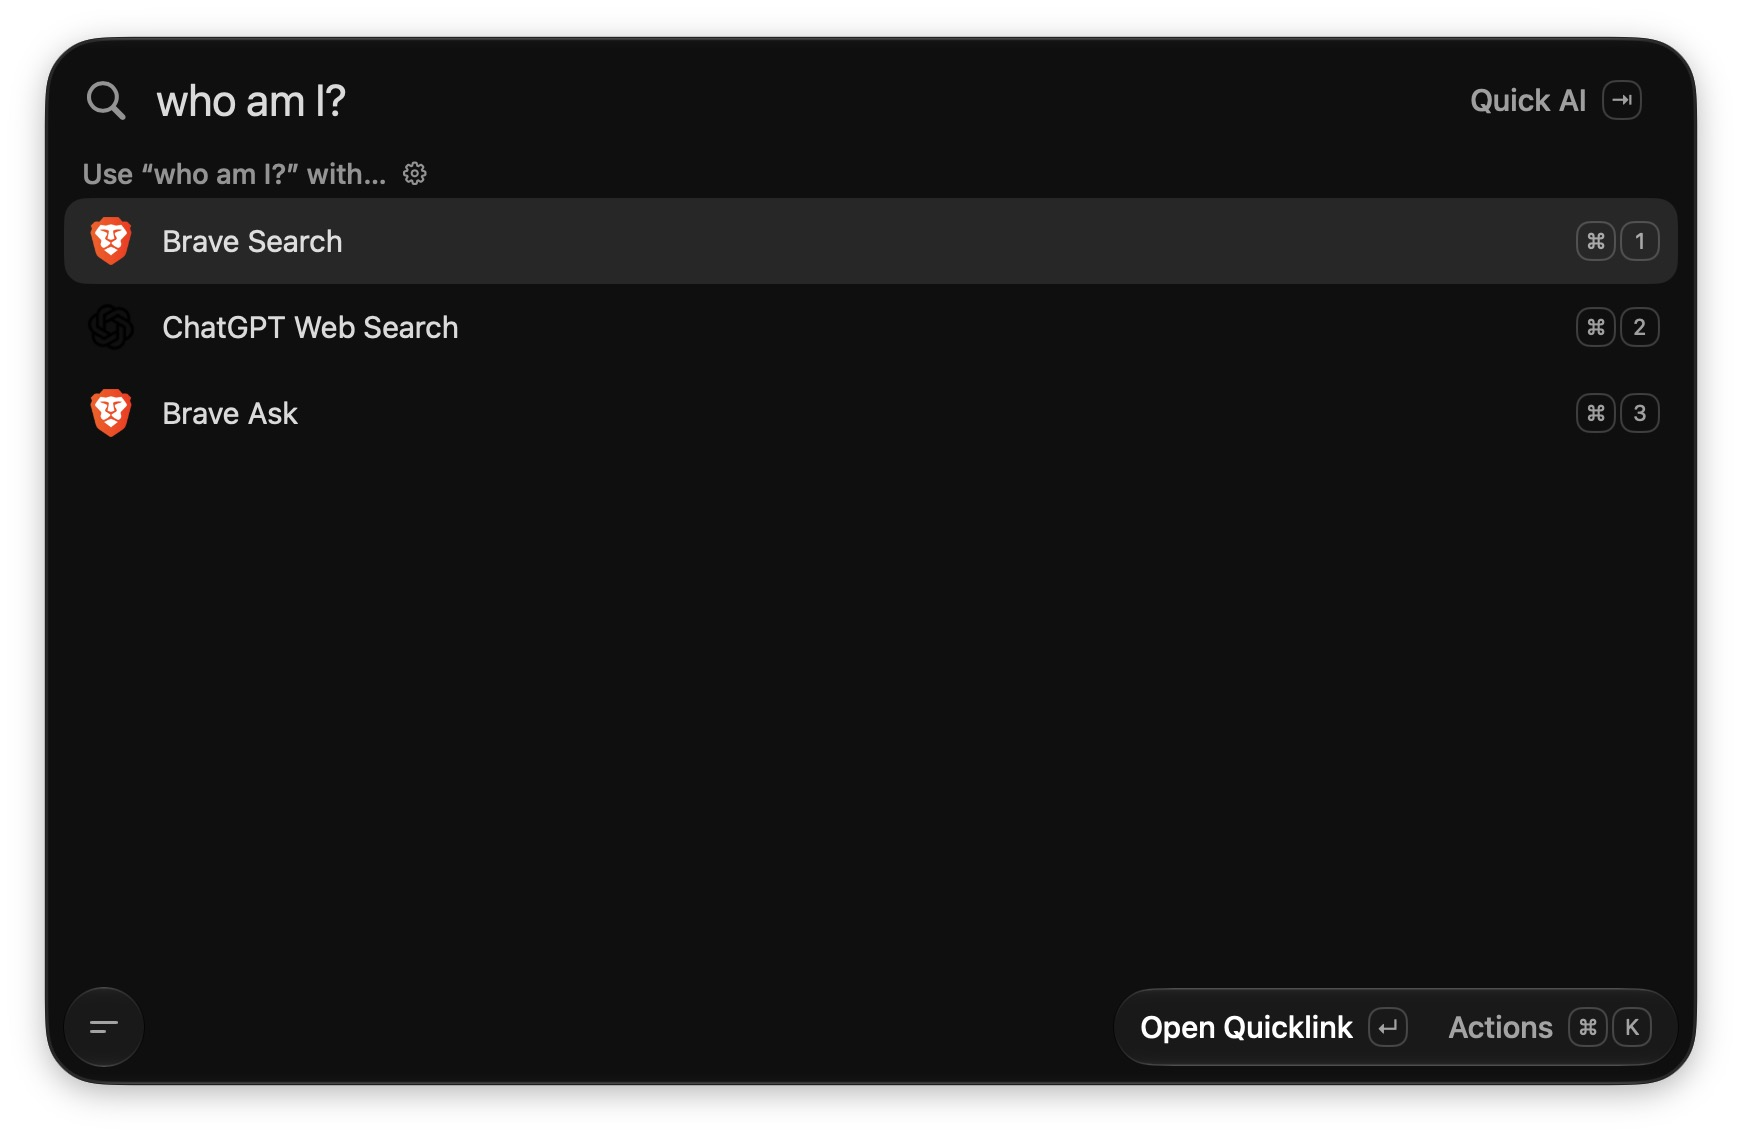
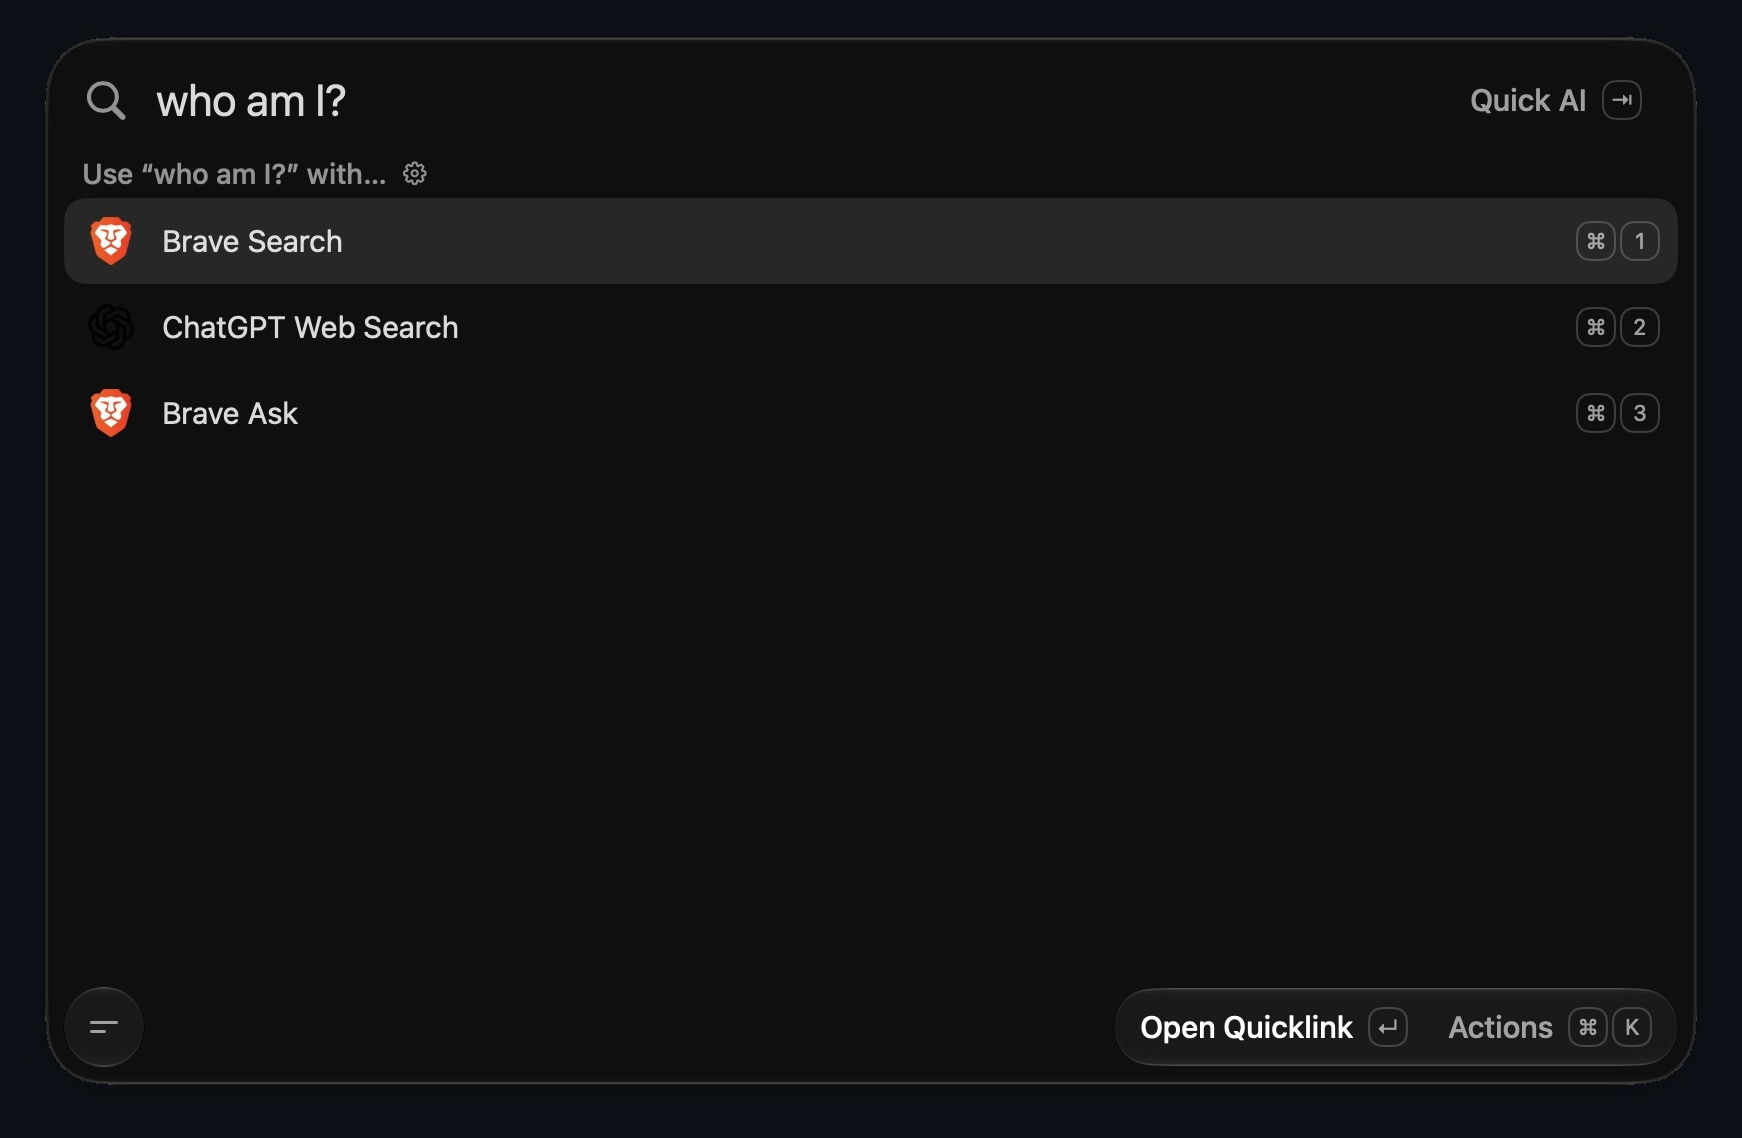
docs: remove white background from docs screenshot, update README and site for v1.1.0

Changed region(s): [[0.0, 0.0, 1.0, 1.0]]

diff --git a/site/index.html b/site/index.html
@@ -520,7 +520,8 @@
            the cleaned text once. No model is bundled — the pane downloads a pinned Core ML
            conversion when you ask it to.</p>
         <ul class="ticks">
-          <li>Parakeet and Qwen3-ASR model families</li>
+          <li>Parakeet and Qwen3-ASR model families with persistent zero-lag daemons</li>
+          <li>Real-time Dictation Insights dashboard with WPM, cadence meter, and streak tracking</li>
           <li>Live preview in a floating pill while you speak</li>
           <li>Local cleanup fixes grammar and filler words before pasting</li>
           <li><a href="#beyond">Vocabulary packs and a custom word list</a> — grown well past upstream</li>
@@ -587,15 +588,16 @@
     <div class="grid">
       <div class="card">
         <span class="badge plus">Extended</span>
-        <h4>Dictation with vocabulary and a local cleanup pass</h4>
+        <h4>Dictation with insights, vocabulary and zero-lag cleanup</h4>
         <p>Tinycast ships dictation on Parakeet and Qwen3-ASR. szcast keeps both and grew the
-           feature to <em>41 source files from 27</em>: vocabulary packs, a custom word list,
+           feature to <em>43 source files from 27</em>: real-time speech analytics dashboard,
+           persistent launch daemons for 0ms latency, vocabulary packs, a custom word list,
            transcription history, a hotkey preset picker, an idle-release policy, and audio
            ducking so your music steps back while you speak.</p>
-        <p>The cleanup pass is the part worth pointing at. A pinned <em>S1-mini</em> model runs
-           locally through llama.cpp to fix grammar and filler words — with tone, structure and
-           sign-off controls — so the text lands formatted instead of raw.</p>
-        <div class="detail">DictationS1Polisher · DictationLlamaServerManager · VocabularyPack<br />
+        <p>The cleanup pass is the part worth pointing at. A pinned <em>S1-mini</em> model stays hot
+           in Metal GPU memory to fix grammar, punctuation, and filler words — with tone, structure,
+           and sign-off controls — so the text lands formatted instead of raw.</p>
+        <div class="detail">DictationInsightsView · DictationS1Polisher · DictationLlamaServerManager<br />
           Tech · Medical · Legal · Brands · Names</div>
       </div>
 
@@ -711,8 +713,13 @@
       </div>
       <div class="card">
         <div class="ico">◐</div>
-        <h4>Display Tweaks &amp; LUTs</h4>
-        <p>Direct hardware look-up table calibration via <code>CGSetDisplayTransferByTable</code> with 0–100 sliders, RGB gain balance, deep shadows, and display mirroring.</p>
+        <h4>Display Tweaks &amp; Gamma Control</h4>
+        <p>Direct hardware LUT calibration via <code>CGSetDisplayTransferByTable</code> with 0.00–1.00 fine Black, Middle, and White luminance controls, RGB gain balance, and instant Gamma Control preset for OLED-grade contrast.</p>
+      </div>
+      <div class="card">
+        <div class="ico">⚡</div>
+        <h4>Dictation Insights &amp; Analytics</h4>
+        <p>Real-time speech analytics dashboard tracking Words Per Minute, cadence percentile meter, S1-mini normalization corrections, 16-week streak calendar, and application usage breakdown.</p>
       </div>
       <div class="card">
         <div class="ico">⌨</div>

diff --git a/README.md b/README.md
@@ -22,7 +22,7 @@
 </p>
 
 <p align="center">
-  <img src="docs/screenshot.jpg" alt="szcast command palette">
+  <img src="docs/screenshot.png" alt="szcast command palette">
 </p>
 
 ## About
@@ -43,9 +43,12 @@ open /Applications/szcast.app
 ### Extension Customization & Fast Navigation
 - **Centralized Extension Aliases**: Set custom aliases and global hotkeys for any installed Raycast extension command from a single view in Settings &rarr; Commands.
 - **List & Submenu Shortcuts (`⌘1`..`⌘9`)**: Press `⌘1` through `⌘9` to instantly activate any item in search results, extension lists (e.g. `brew search`), and nested submenus, with dynamic keycap badges when holding `Command`.
+- **Dual-Mode Snippet & Extension Icons**: Adaptive SVG icons for ChatGPT, OpenAI, and Raycast snippets that render crisply across both light and dark themes.
+- **Window Geometry & Navigation Polish**: Enforced 840x600 minimum layout floor preventing sidebar truncation, 21.5pt AppKit toolbar platter navigation spacing, and opaque navigation headers.
 
 ### Offline Speech Dictation & Indic Romanization
-- **Persistent Local S1 Daemon**: Local S1-mini normalization engine stays hot in Metal GPU memory (~460 MB RAM) for 0ms startup delay.
+- **Dictation Insights & Speech Analytics**: Real-time Wispr Flow-style telemetry dashboard driven 100% by local dictation metrics. Track Words Per Minute (WPM), cadence meter (Top % tier), S1-mini normalization corrections, total words dictated, application-level breakdown (AI Prompts, Work Messages, Personal Messages, Documents, Emails), and interactive 16-week speech cadence streak calendar.
+- **Persistent Zero-Latency Daemons**: Local S1-mini normalization engine (~460 MB RAM) and offline Parakeet v3 ASR engine pre-warmed and kept persistent via launch daemons, eliminating first-dictation cold start delays entirely.
 - **Audio & Video File Transcription**: Transcribe media files directly from the menu bar using local Neural Engine or cloud Groq models, with S1 normalization and instant clipboard copy.
 - **Bengali & Hindi Romanization**: Dictate in Bengali or Hindi and receive clean Latin text (Banglish & Hinglish) via local S1-mini LLM or 0ms deterministic Avro/Hunterian rules.
 - **Quiet Dictation Pill & Single-Shot Paste**: Visual waveform feedback in a floating glass pill, with polished text pasted in one shot upon completion.
@@ -53,7 +56,7 @@ open /Applications/szcast.app
 
 ### Liquid Glass Design & Display Tweaks
 - **macOS Liquid Glass UI**: Translucent vibrancy and light refraction across the launcher and settings, with a 0% to 100% transparency slider and instant toggle.
-- **Lunar-Style 0–100 Color Sliders**: Direct GPU gamma table controls (`CGSetDisplayTransferByTable`) for Red, Green, Blue channels, Blacks, Whites, Brightness, and Contrast.
+- **Display Tweaks & Gamma Control**: Direct GPU gamma table controls (`CGSetDisplayTransferByTable`) with 0.00–1.00 fine luminance controls for Black point, Middle gamma, and White point across RGB channels, plus quick presets including the Gamma Control reference profile for deep OLED-grade blacks without color banding.
 - **Display Mirroring**: One-key hardware display mirroring toggle.
 
 ### Built-In Productivity Tools
